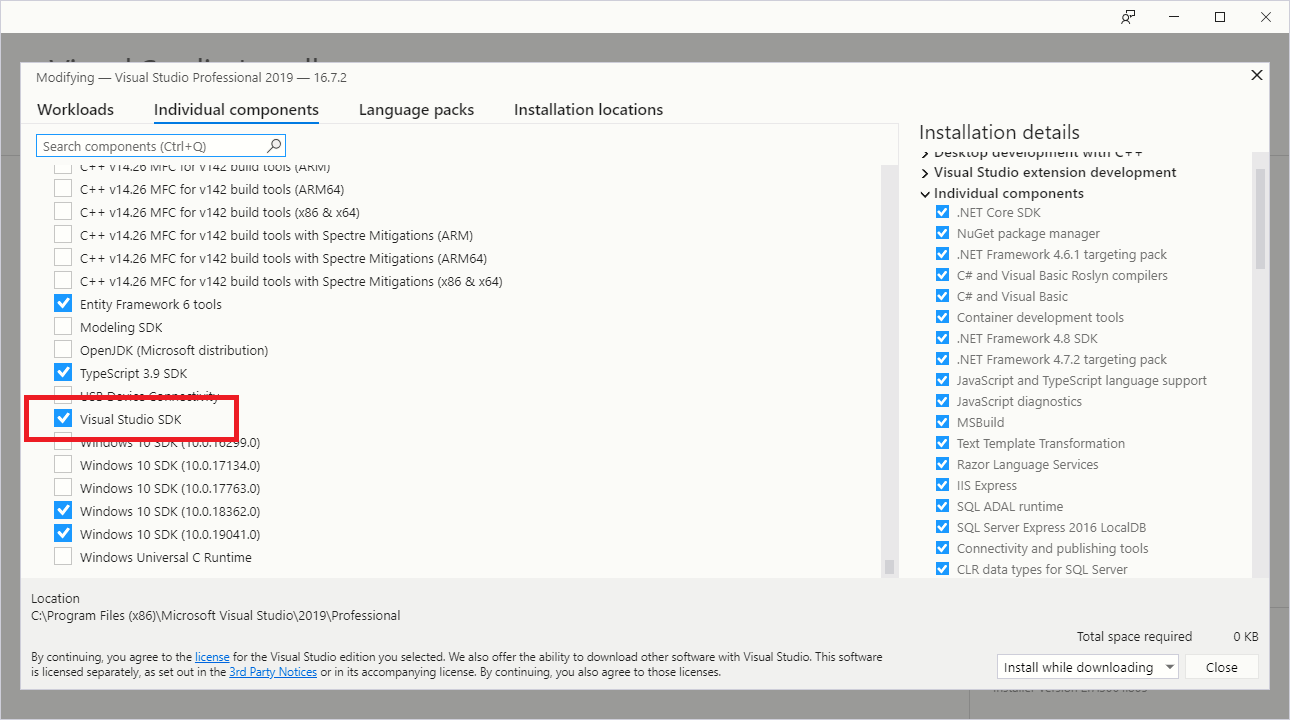
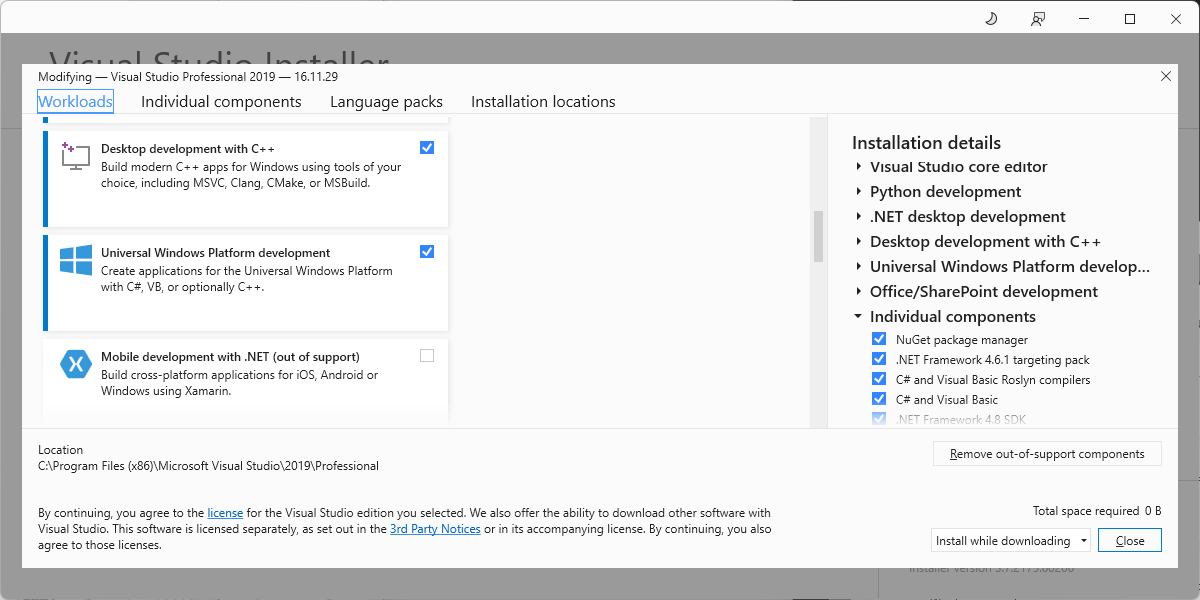
Updates to C++ installing tools

diff --git a/content/en/guides/cpp/installing-tools-windows/index.md b/content/en/guides/cpp/installing-tools-windows/index.md
@@ -28,57 +28,86 @@ toc_type = "single"
 
 +++
 
-
-By the end of this guide, you should have all the tools installed necessary for authoring, building, and debugging C/C++ plugins using the Rhino C/C++ SDK on Windows.
+By the end of this guide, you should have all the tools installed necessary for authoring, building, and debugging C/C++ plug-ins using the Rhino C/C++ SDK on Windows.
 
 ## Prerequisites
 
 This guide presumes you have:
 
+### Rhino 8
+
+- A PC running Microsoft Windows 10 or later.
+- [Rhino 8 for Windows](https://www.rhino3d.com/download).
+
+### Rhino 7
+
 - A PC running Microsoft Windows 8.1 or later.
 - [Rhino 7 for Windows](https://www.rhino3d.com/download).
 
 ## Install Visual Studio
-In order to author, build, and debug C/C++ plugins for Rhino, you will need Microsoft [Visual Studio 2019](https://visualstudio.microsoft.com/vs/older-downloads/).
 
-Visual Studio 2019 comes in three editions: Community, Professional, and Enterprise. All of these editions will work with the Rhino C/C++ SDK.
+### Rhino 8
 
-#### Step-by-Step
+To write C++ plug-ins for Rhino 8 using the Rhino 8 C/C++ SDK, you will need a version of Microsoft Visual Studio that includes the Visual Studio 2019 (v142) platform toolset. Thus, you can use either [Visual Studio 2022](https://visualstudio.microsoft.com/downloads/) or [Visual Studio 2019](https://visualstudio.microsoft.com/vs/older-downloads/).
 
-1. **[Visual Studio 2019 Community](https://apps.microsoft.com/store/detail/visual-studio-community-2019/XP8CDJNZKFM06W)** is free from Microsoft for students, open-source contributors, and small teams. [Details here](https://visualstudio.microsoft.com/license-terms/mlt031819/).  Click the **Community** button to download the installer.
-2. Run the **Visual Studio installer** you downloaded from Microsoft, in this case ***vs_community_[build_number].exe***.
+1. Download **Microsoft Visual Studio**, either [Visual Studio 2022](https://visualstudio.microsoft.com/downloads/) or [Visual Studio 2019](https://visualstudio.microsoft.com/vs/older-downloads/).
+2. Run the **Visual Studio installer** you just downloaded.
     ![Visual Studio Install](/images/installing-tools-windows-cpp-01.png)
-3. Follow the onscreen prompts to install Visual Studio. Make sure to select all of the **Desktop development with C++** features.
-4. Click the **Individual components** tab, scroll to the **SDKs, libraries, and frameworks** section, and check **Visual Studio SDK**.
+3. Follow the onscreen prompts to install Visual Studio.
+4. Check the **Desktop development with C++** workload.
+5. Click the **Individual components** tab.
+6. Scroll to the **Compilers, build tools, and runtimes** section and check the following option:
+    1. MSVC v142 - VS 2019 C++ x64/x86 build tools
+7. Scroll to the **SDKs, libraries, and frameworks** section and check the following options:
+    1. C++ v14.2 ATL for v142 build tools (x86 & x64)
+    2. C++ v14.2 MFC for v142 build tools (x86 & x64)
+    3. Windows 10 SDK
+8. Check any additional features required for your project.
+9. When finished, click **Install**.
+10. Depending on your internet connection, this can take several minutes to complete.
+
+If you already have Microsoft Visual Studio 2022 or 2019 installed, then you will want to re-run the **Visual Studio Installer** and verify you have all the the components installed.
+
+### Rhino 7
+
+To write C++ plug-ins for Rhino 7 using the Rhino 7 C/C++ SDK, you will need [Microsoft Visual Studio 2019](https://visualstudio.microsoft.com/vs/older-downloads/).
+
+1. Download **[Visual Studio 2019](https://visualstudio.microsoft.com/vs/older-downloads/)**.
+2. Run the **Visual Studio installer** you just downloaded.
     ![Visual Studio Install](/images/installing-tools-windows-cpp-02.png)
-5. When finished, click **Install**.
-6. Depending on your internet connection, this can take several minutes to complete.
+3. Follow the onscreen prompts to install Visual Studio.
+4. Check the **Desktop development with C++** workload.
+5. Click the **Individual components** tab.
+6. Scroll to the **SDKs, libraries, and frameworks** section and check the following option:
+    1. Visual Studio SDK
+7. Check any additional features required for your project.
+8. When finished, click **Install**.
+9. Depending on your internet connection, this can take several minutes to complete.
 
-## Modifying Visual Studio
-
-If you already have Microsoft Visual Studio 2019 installed, then you will want to re-run the Visual Studio Installer and verify you have all the the components required to build Rhino plug-in installed.
-
-#### Step-by-Step
-1. Open the **[Visual Studio Installer](https://docs.microsoft.com/en-us/visualstudio/install/modify-visual-studio?view=vs-2019)**.
-2. In the installer, look for the 2019 edition of Visual Studio that you installed, and then choose **Modify**.
-3. As mentioned in **Install Visual Studio** above, select all of the **Desktop development with C++** features.
-4. Also mentioned above, click the **Individual components** tab, scroll to the **SDKs, libraries, and frameworks** section, and check **Visual Studio SDK**.
-5. When finished, click **Modify**.
-6. Depending on your internet connection, this can take several minutes to complete.
+If you already have Microsoft Visual Studio 2019 installed, then you will want to re-run the **Visual Studio Installer** and verify you have all the the components installed.
 
 ## Install the Rhino C/C++ SDK
 
 The **Rhino C/C++ SDK** is a set of tools for creating plug-in using the C++ language. The SDK includes headers, libraries and Visual Studio project wizards to get you started creating plugins quickly.
 
-#### Step-by-Step
+### Rhino 8
 
 1. Exit **Visual Studio**.
-2. Download the **[Rhino C/C++ SDK](https://www.rhino3d.com/download/Rhino-SDK/7.0/latest)**.
-3. Run the **SDK installer** you downloaded, in this case ***rh70sdk_[build_number].msi***.
+2. Download the **[Rhino 8 C/C++ SDK](https://www.rhino3d.com/download/rhino-sdk/wip)**.
+3. Run the **SDK installer** you downloaded.
+4. Download the **[Rhino Visual Studio Extension (VSIX)](https://github.com/mcneel/RhinoVisualStudioExtensions/releases)**.
+5. Run the **VSIX installer** you downloaded.
+6. If the installation is successful, run Visual Studio.
+
+### Rhino 7
+
+1. Exit **Visual Studio**.
+2. Download the **[Rhino 7 C/C++ SDK](https://www.rhino3d.com/download/Rhino-SDK/7.0/latest)**.
+3. Run the **SDK installer** you downloaded.
 4. If the installation is successful, run Visual Studio.
 
 ## Next Steps
 
 **Congratulations!** You have the tools to build a C/C++ plugin for Rhino for Windows. **Now what?**
 
-Check out the [Creating your first C/C++ plugin for Rhino](/guides/cpp/your-first-plugin-windows/) guide for instructions building - you guessed it - your first plugin.
+Check out the [Creating your first C/C++ plugin for Rhino](/guides/cpp/your-first-plugin-windows/) guide for instructions building your first plug-in.

diff --git a/content/en/guides/cpp/whats-new/index.md b/content/en/guides/cpp/whats-new/index.md
@@ -31,17 +31,27 @@ toc_type = "single"
 
 ## Overview
 
-The Rhino C/C++ SDK is *not* an abstract SDK. That is, the native classes and functions that are made available in the SDK are also used internally by Rhino. Thus, when the signatures of classes or functions change, all developers, both internal and external, are required to modify their source code to accommodate for the change. 
+The Rhino C/C++ SDK is *not* an abstract SDK. That is, the native classes and functions that are made available in the SDK are also used internally by Rhino. Thus, when the signatures of classes or functions change, all developers, both internal and external, are required to modify their source code to accommodate for the change.
 
-For this reason, the Rhino C/C++ SDK was *not* broken between Rhino 6 and 7. Thus, plugins written for Rhino 6 using the Rhino 6 C/C++ SDK should load and run without modification in Rhino 7. However, we do encourage developers to migrate their plugin projects to Rhino 7 so they can take advantage to new and enhanced features.
+For this reason, the Rhino C/C++ SDK was *not* broken between Rhino 6, 7 and 8. Thus, plug-ins written for Rhino 7 using the Rhino 7 C/C++ SDK should load and run without modification in Rhino 8. However, we do encourage developers to migrate their plug-in projects to Rhino 8 so they can take advantage to new and enhanced features.
 
-## Visual Studio 2019
+## Rhino 8
 
-To write C++ plug-ins for Rhino 7 using the Rhino 7 C/C++ SDK, you will need [Visual Studio 2019](/guides/cpp/installing-tools-windows).
+### Visual Studio 2019 (v142)
 
-What’s really exciting is that the free Community edition of Visual Studio will work to build plug-ins for Rhino 7. Of course, you can also use either the Professional or Enterprise edition.
+To write C++ plug-ins for Rhino 8 using the Rhino 8 C/C++ SDK, you will need a version of Microsoft Visual Studio that includes the Visual Studio 2019 (v142) platform toolset. Thus, you can use either [Visual Studio 2022](https://visualstudio.microsoft.com/downloads/) or [Visual Studio 2019](https://visualstudio.microsoft.com/vs/older-downloads/).
 
-# Subdivision Surfaces
+There is a new [Rhino Visual Studio Extension](https://github.com/mcneel/RhinoVisualStudioExtensions/releases), which includes project and command templates, that installs independently of Rhino C/C++ SDK.
+
+## Rhino 7
+
+### Visual Studio 2019 (v142)
+
+To write C++ plug-ins for Rhino 7 using the Rhino 7 C/C++ SDK, you will need a version of Microsoft Visual Studio that includes the Visual Studio 2019 (v142) platform toolset. Thus, you can use either [Visual Studio 2022](https://visualstudio.microsoft.com/downloads/) or [Visual Studio 2019](https://visualstudio.microsoft.com/vs/older-downloads/).
+
+Rhino 7 C/C++ SDK includes project and command wizards. Thus, you'll need to have Visual Studio 2019 installed on your system before installing the Rhino 7 C/C++ SDK.
+
+### Subdivision Surfaces
 
 A new subdivision surface object has been added to Rhino 7. The core geometry component is ```ON_SubD``` class, which is also part of openNURBS. All subdivision code will be available in the Rhino plug-in SDK.
 
@@ -51,15 +61,12 @@ Rhino subdivision objects are automatically converted to cubic NURBS polysurface
 
 ## Deprecation
 
-Obsolete functions from Rhino 6 are marked as deprecated with a message to help accomplish the same goal through alternate functions in the Rhino 6 SDK. These deprecations will generate compiler warnings when plug-in code attempts to call these functions.
+Obsolete functions from Rhino are marked as deprecated with a message to help accomplish the same goal through alternate functions in the Rhino C/C++ SDK. These deprecations will generate compiler warnings when plug-in code attempts to call these functions.
 
-Functions marked as deprecated may or may not continue to work in Rhino 7. Thus, you should replace all calls to deprecated functions with calls to their replacements before distributing any plug-in.
-
-### Other
-Coming soon...
+Functions marked as deprecated may or may not continue to work in future Rhino versions. Thus, you should replace all calls to deprecated functions with calls to their replacements before distributing any plug-in.
 
 ## Related Topics
 
 - [Installing Tools (Windows)](/guides/cpp/installing-tools-windows)
-- [Migrate your plugin project to Rhino 7](/guides/cpp/migrate-your-plugin-windows)
-- [C++ SDK samples on GitHub](https://github.com/mcneel/rhino-developer-samples/tree/7)
+- [C++ SDK samples on GitHub](https://github.com/mcneel/rhino-developer-samples)
+- [Migrate Rhino 6 plug-in projects to Rhino 7](/guides/cpp/migrate-your-plugin-windows)

diff --git a/content/en/guides/cpp/what-is-the-cpp-sdk/index.md b/content/en/guides/cpp/what-is-the-cpp-sdk/index.md
@@ -31,7 +31,9 @@ toc_type = "single"
 
 The Rhino C/C++ Software Development Kit (SDK) is an set of developer resources for customizing and extending Rhino for Windows. The SDK provides tools that provide direct access to its database structures, geometry, graphics system, file I/O, command definitions, and much more.
 
-The Rhino C/C++SDK consists primarily of C++ headers and libraries that can be used to build Rhino extensions called *Plug-ins*. Plug-ins are Windows DLLs that can be loaded into the Rhino process and interact directly with the Rhino application. Rhino plug-in modules use the file extension *.rhp* instead of the more common *.dll*.
+The Rhino C/C++ SDK consists primarily of C++ headers and libraries that can be used to build Rhino extensions called *Plug-ins*. Plug-ins are Windows DLLs that can be loaded into the Rhino process and interact directly with the Rhino application. Rhino plug-in modules use the file extension *.rhp* instead of the more common *.dll*.
+
+The Rhino C/C++ SDK is for Rhino for Windows only. There currently is no Rhino C/C++ SDK for Rhino for Mac.
 
 ## Types of Plugins
 
